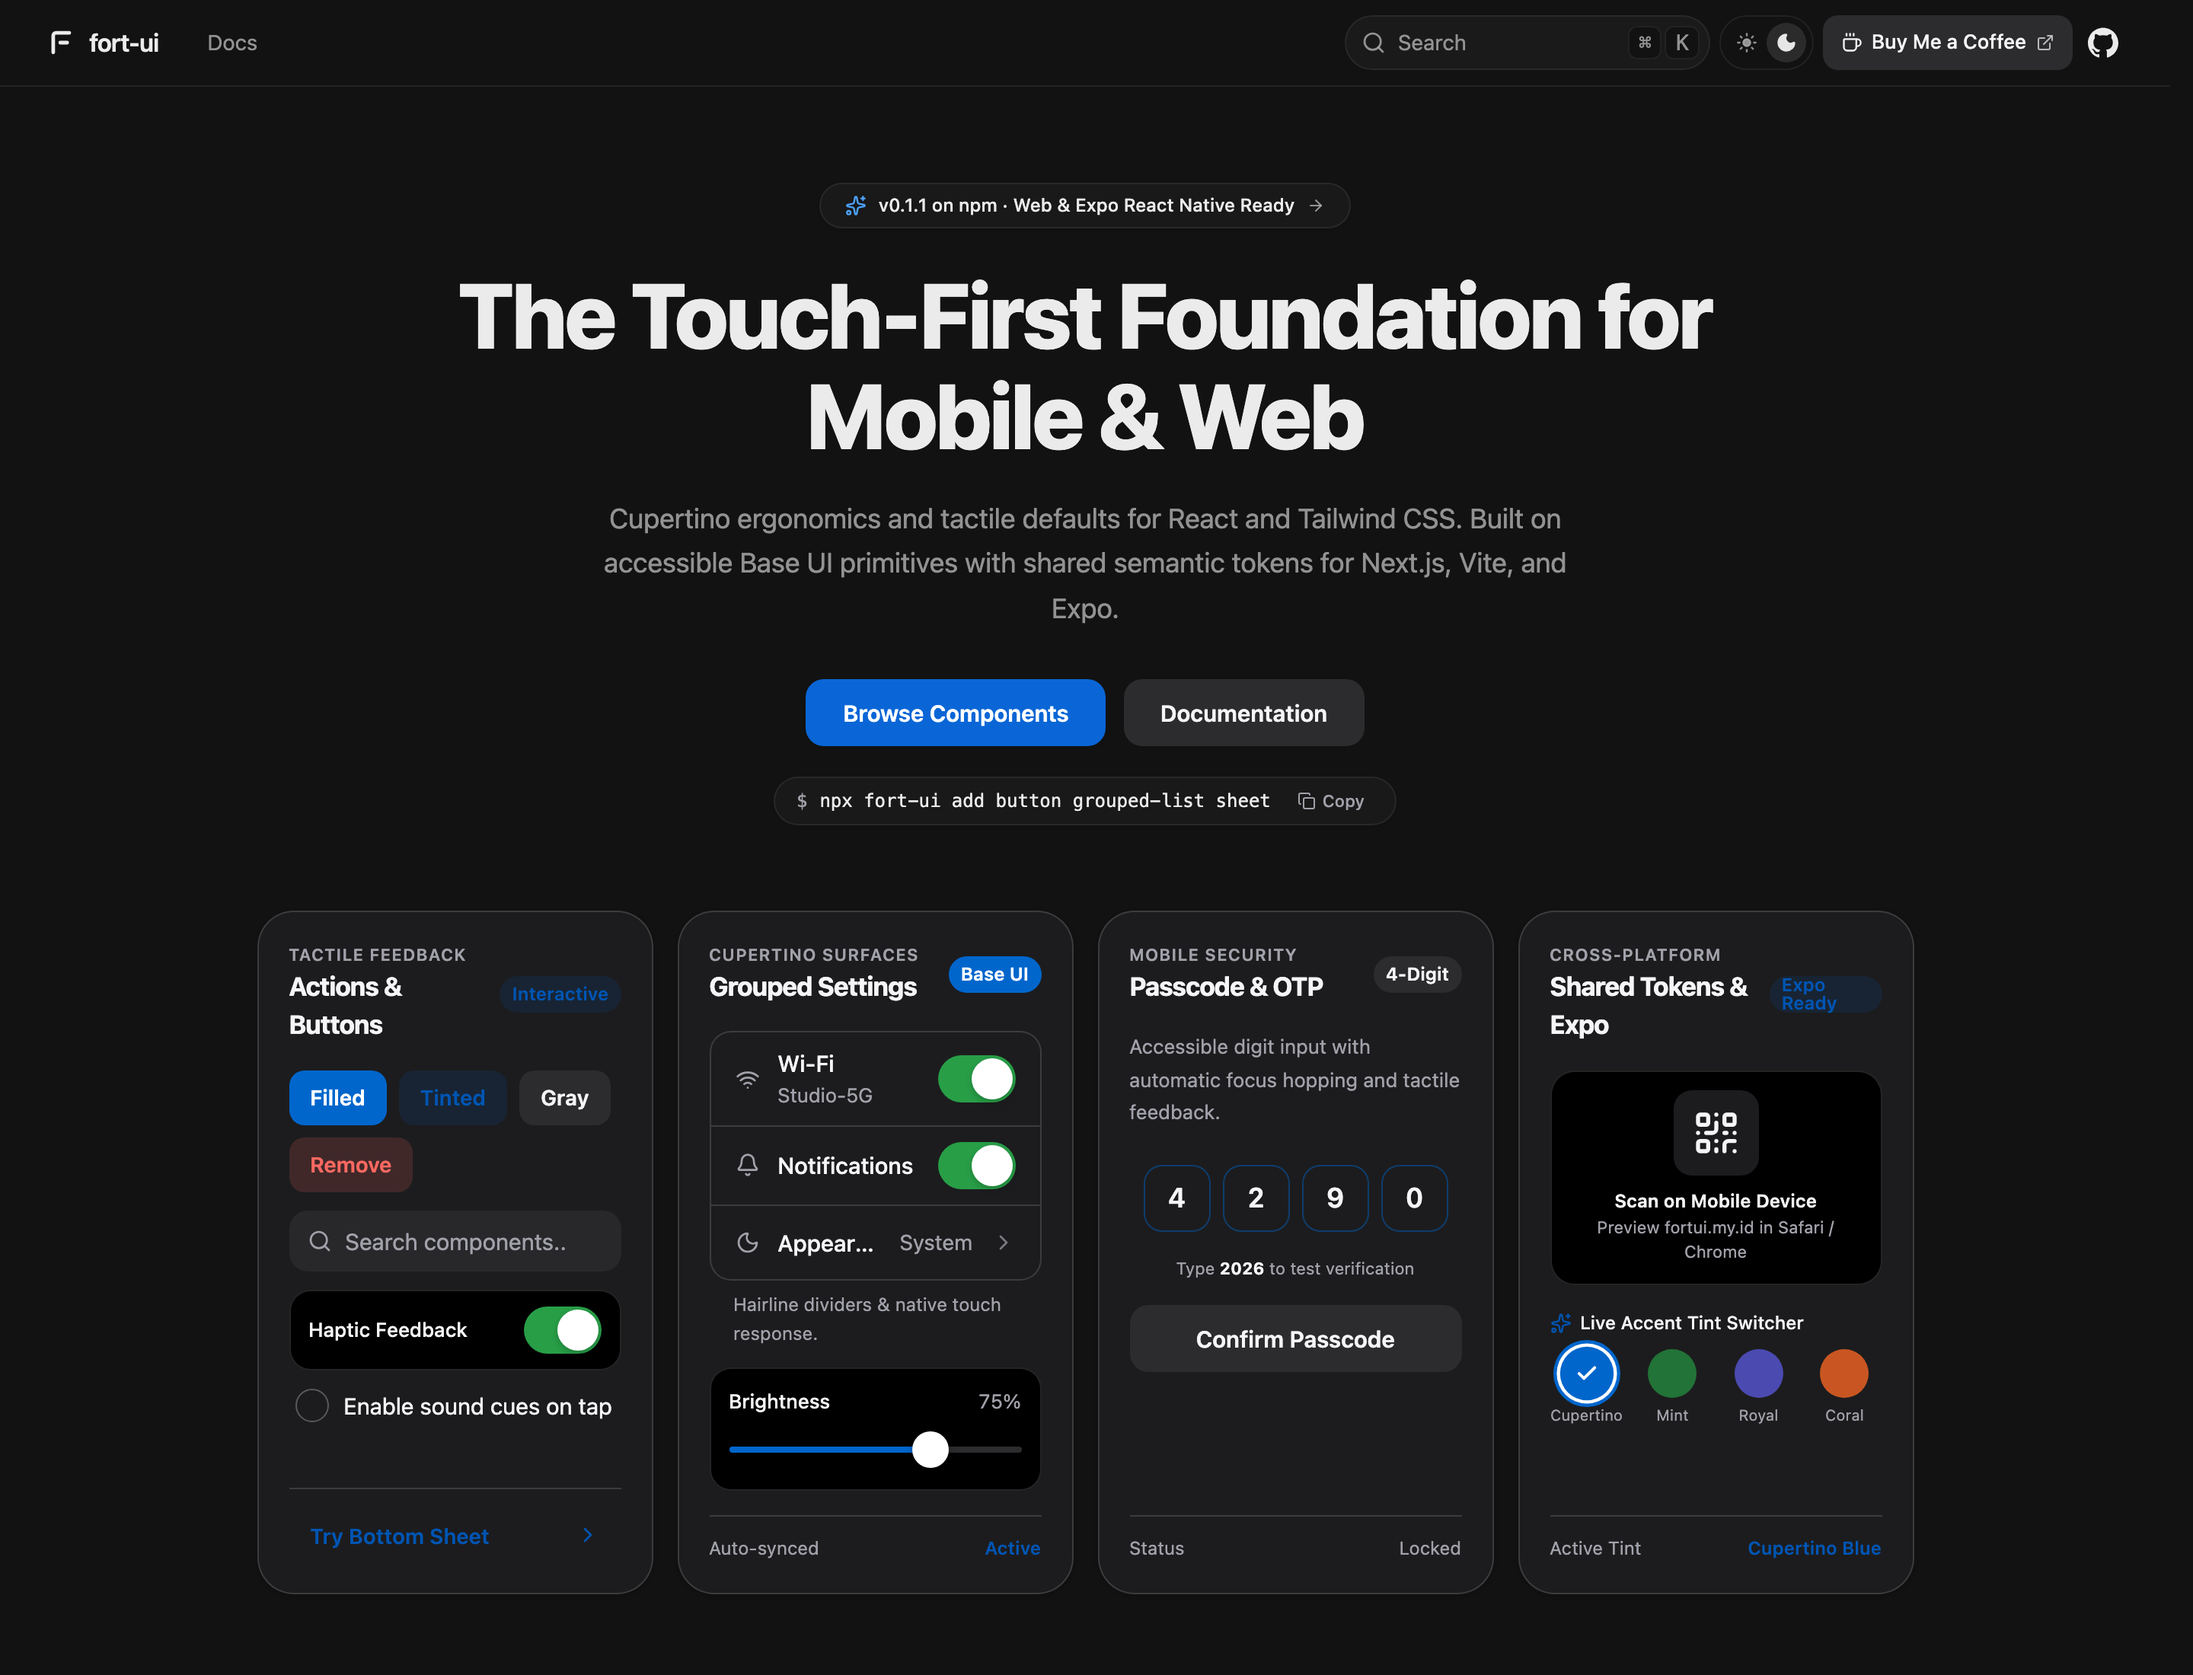
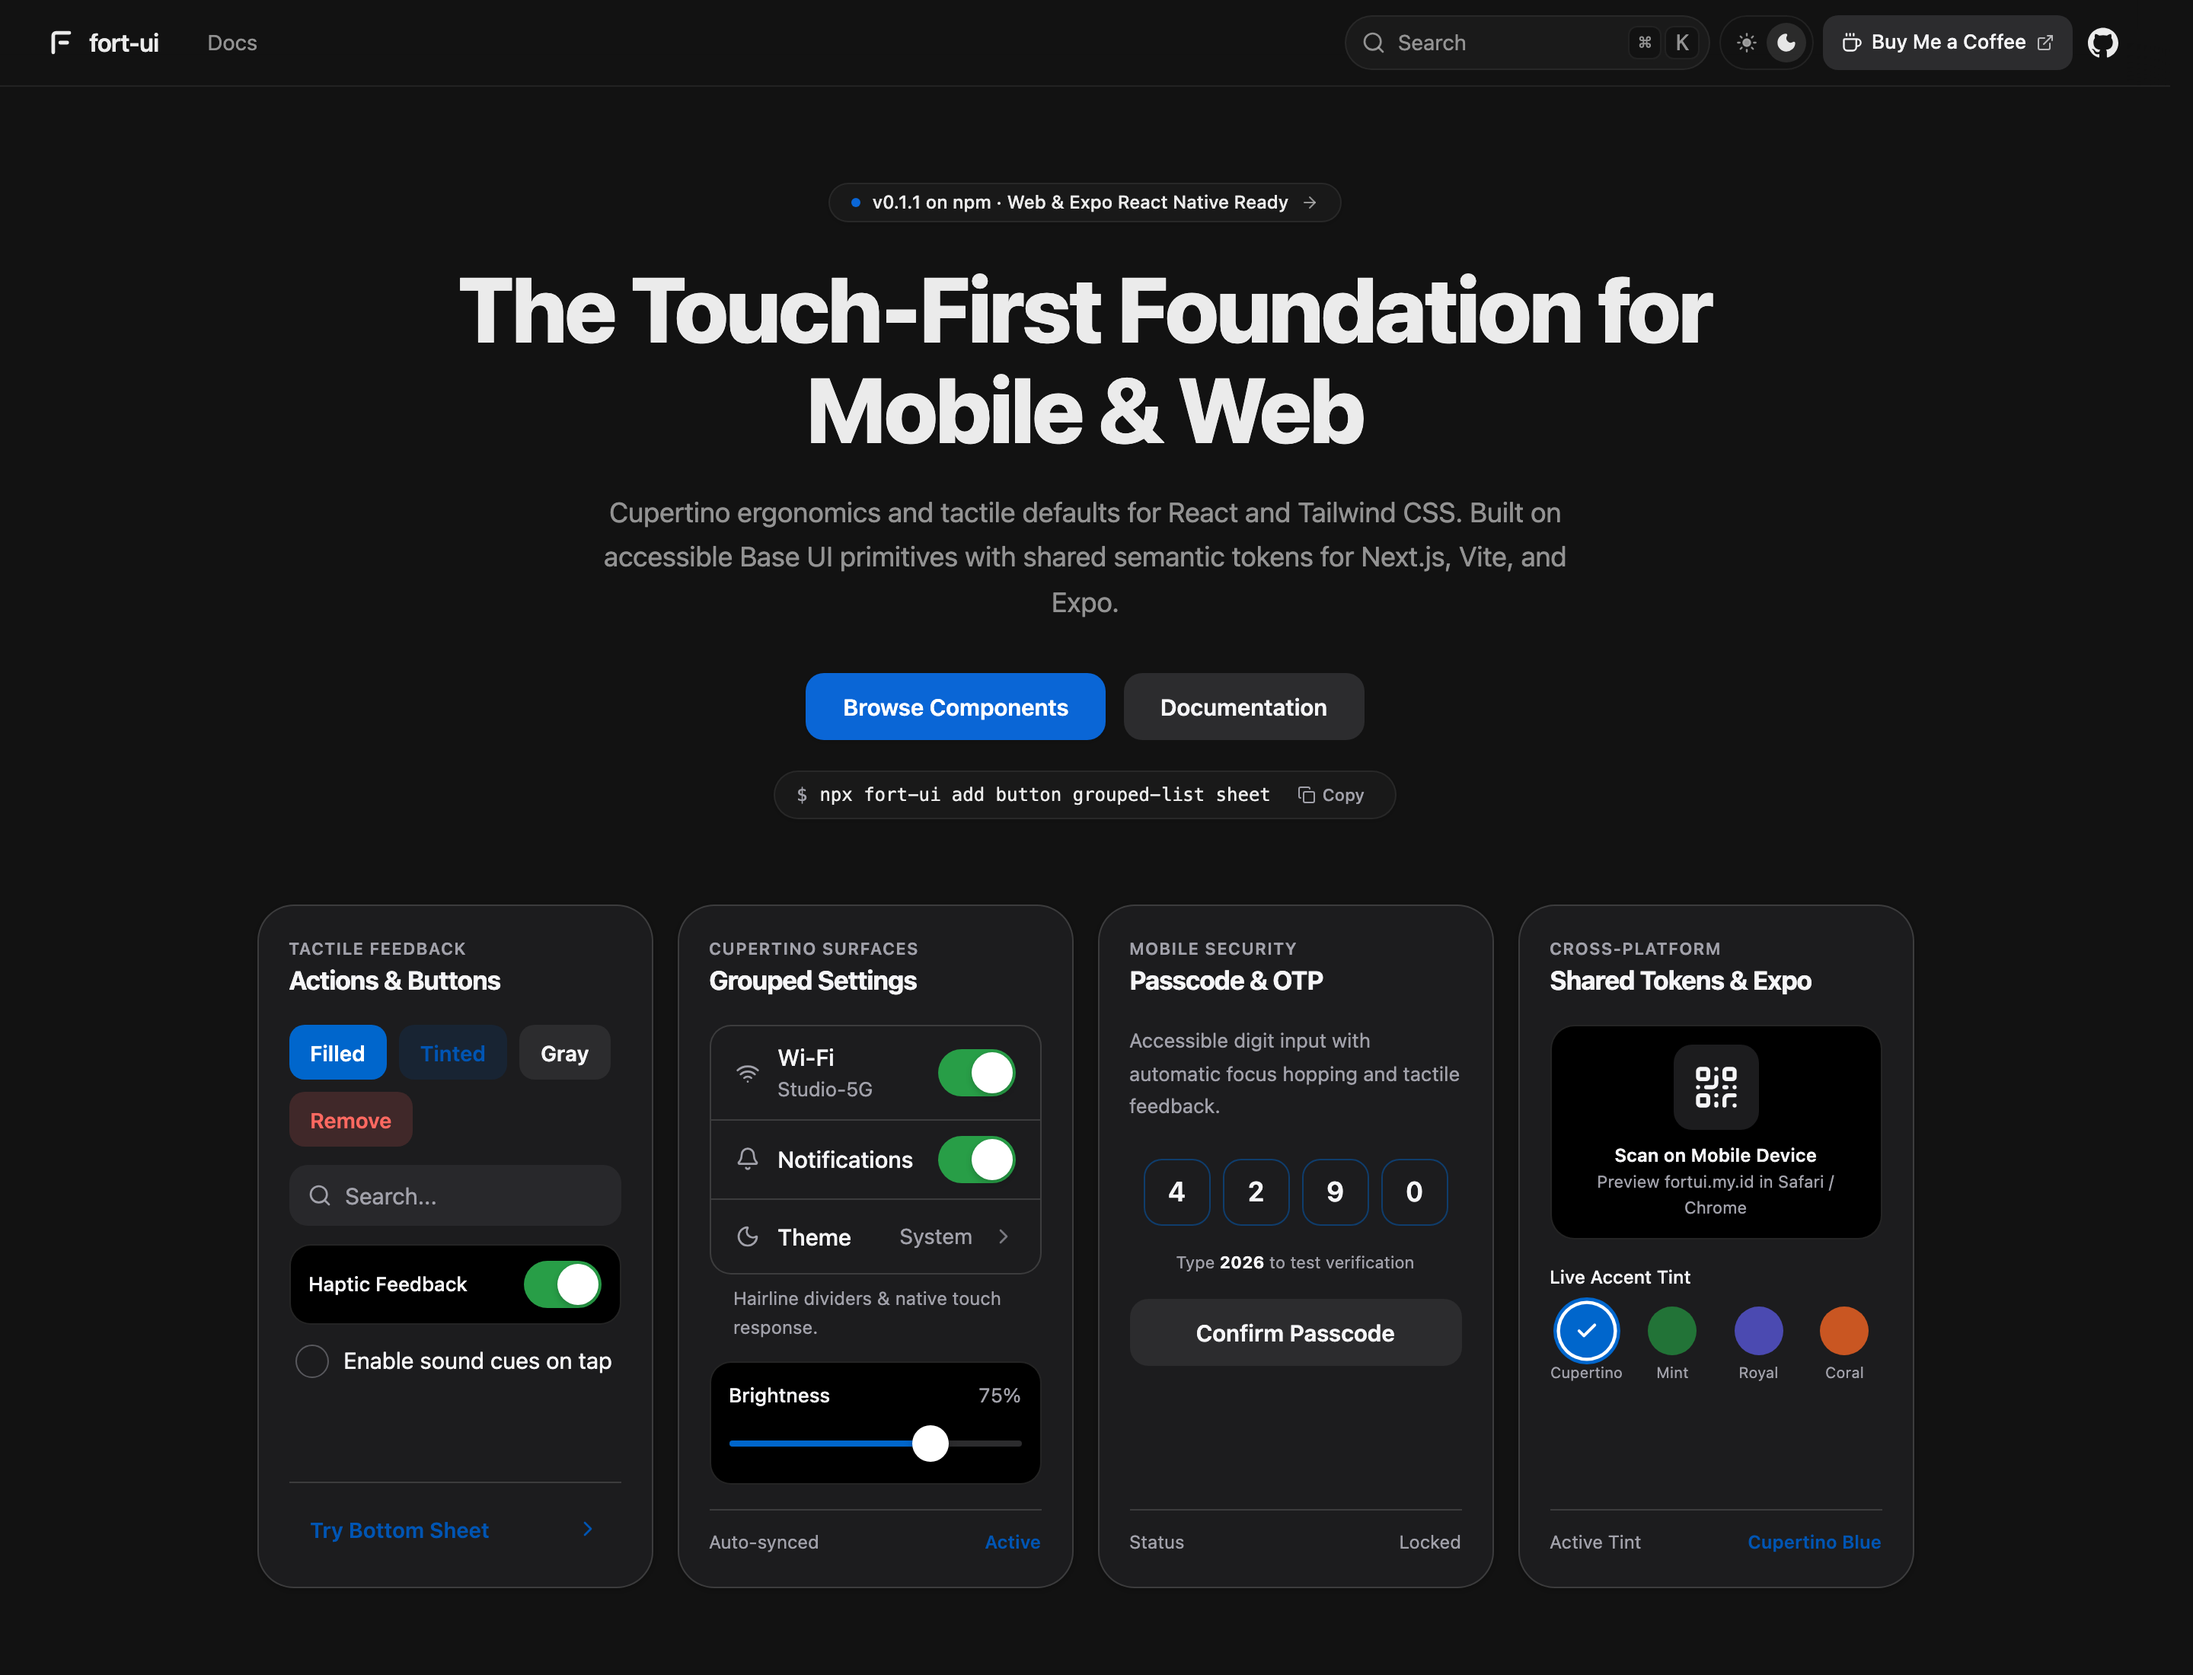
fix(ui): remove cluttered card badges, remove sparkles and emojis, polish bento layout

diff --git a/components/home-bento.tsx b/components/home-bento.tsx
@@ -9,11 +9,9 @@ import {
   Moon,
   QrCode,
   SlidersHorizontal,
-  Sparkles,
   Wifi,
 } from 'lucide-react';
 import { Button } from '@/registry/web/ui/button';
-import { Badge } from '@/registry/web/ui/badge';
 import { Checkbox } from '@/registry/web/ui/checkbox';
 import { SearchBar } from '@/registry/web/ui/input';
 import { Slider } from '@/registry/web/ui/slider';
@@ -70,18 +68,13 @@ export function HomeBento() {
         {/* Card 1: Touch Actions & Controls */}
         <div className="flex flex-col justify-between rounded-[24px] border border-[var(--fort-separator)] bg-[var(--fort-surface)] p-5 shadow-sm transition-all duration-200 hover:border-fd-foreground/20">
           <div>
-            <div className="mb-4 flex items-center justify-between">
-              <div>
-                <p className="text-[11px] font-semibold tracking-wider text-[var(--fort-label-secondary)] uppercase">
-                  Tactile Feedback
-                </p>
-                <h3 className="text-[17px] font-bold tracking-tight text-[var(--fort-label)]">
-                  Actions &amp; Buttons
-                </h3>
-              </div>
-              <Badge variant="tinted">
-                Interactive
-              </Badge>
+            <div className="mb-4">
+              <p className="text-[11px] font-semibold tracking-wider text-[var(--fort-label-secondary)] uppercase">
+                Tactile Feedback
+              </p>
+              <h3 className="text-[17px] font-bold tracking-tight text-[var(--fort-label)]">
+                Actions &amp; Buttons
+              </h3>
             </div>
 
             <div className="space-y-3">
@@ -159,18 +152,13 @@ export function HomeBento() {
         {/* Card 2: Cupertino Inset Grouped Settings */}
         <div className="flex flex-col justify-between rounded-[24px] border border-[var(--fort-separator)] bg-[var(--fort-surface)] p-5 shadow-sm transition-all duration-200 hover:border-fd-foreground/20">
           <div>
-            <div className="mb-4 flex items-center justify-between">
-              <div>
-                <p className="text-[11px] font-semibold tracking-wider text-[var(--fort-label-secondary)] uppercase">
-                  Cupertino Surfaces
-                </p>
-                <h3 className="text-[17px] font-bold tracking-tight text-[var(--fort-label)]">
-                  Grouped Settings
-                </h3>
-              </div>
-              <Badge variant="filled">
-                Base UI
-              </Badge>
+            <div className="mb-4">
+              <p className="text-[11px] font-semibold tracking-wider text-[var(--fort-label-secondary)] uppercase">
+                Cupertino Surfaces
+              </p>
+              <h3 className="text-[17px] font-bold tracking-tight text-[var(--fort-label)]">
+                Grouped Settings
+              </h3>
             </div>
 
             <GroupedList footer="Hairline dividers &amp; native touch response.">
@@ -232,18 +220,13 @@ export function HomeBento() {
         {/* Card 3: Passcode & OTP Verification */}
         <div className="flex flex-col justify-between rounded-[24px] border border-[var(--fort-separator)] bg-[var(--fort-surface)] p-5 shadow-sm transition-all duration-200 hover:border-fd-foreground/20">
           <div>
-            <div className="mb-4 flex items-center justify-between">
-              <div>
-                <p className="text-[11px] font-semibold tracking-wider text-[var(--fort-label-secondary)] uppercase">
-                  Mobile Security
-                </p>
-                <h3 className="text-[17px] font-bold tracking-tight text-[var(--fort-label)]">
-                  Passcode &amp; OTP
-                </h3>
-              </div>
-              <Badge variant="neutral">
-                4-Digit
-              </Badge>
+            <div className="mb-4">
+              <p className="text-[11px] font-semibold tracking-wider text-[var(--fort-label-secondary)] uppercase">
+                Mobile Security
+              </p>
+              <h3 className="text-[17px] font-bold tracking-tight text-[var(--fort-label)]">
+                Passcode &amp; OTP
+              </h3>
             </div>
 
             <p className="text-[13px] leading-relaxed text-[var(--fort-label-secondary)] mb-4">
@@ -300,18 +283,13 @@ export function HomeBento() {
         {/* Card 4: Cross-Platform & Accent Tint Switcher */}
         <div className="flex flex-col justify-between rounded-[24px] border border-[var(--fort-separator)] bg-[var(--fort-surface)] p-5 shadow-sm transition-all duration-200 hover:border-fd-foreground/20">
           <div>
-            <div className="mb-4 flex items-center justify-between">
-              <div>
-                <p className="text-[11px] font-semibold tracking-wider text-[var(--fort-label-secondary)] uppercase">
-                  Cross-Platform
-                </p>
-                <h3 className="text-[17px] font-bold tracking-tight text-[var(--fort-label)]">
-                  Shared Tokens &amp; Expo
-                </h3>
-              </div>
-              <Badge variant="tinted">
-                Expo Ready
-              </Badge>
+            <div className="mb-4">
+              <p className="text-[11px] font-semibold tracking-wider text-[var(--fort-label-secondary)] uppercase">
+                Cross-Platform
+              </p>
+              <h3 className="text-[17px] font-bold tracking-tight text-[var(--fort-label)]">
+                Shared Tokens &amp; Expo
+              </h3>
             </div>
 
             <div className="rounded-[16px] border border-[var(--fort-separator)] bg-[var(--fort-bg)] p-3 text-center mb-4">
@@ -327,9 +305,8 @@ export function HomeBento() {
             </div>
 
             <div>
-              <p className="text-[12px] font-medium text-[var(--fort-label)] mb-2 flex items-center gap-1.5">
-                <Sparkles className="size-3.5 text-[var(--fort-tint-text)]" />
-                Live Accent Tint Switcher
+              <p className="text-[12px] font-medium text-[var(--fort-label)] mb-2.5">
+                Live Accent Tint
               </p>
               <div className="grid grid-cols-4 gap-2">
                 {TINT_PRESETS.map((preset) => {

diff --git a/app/(home)/page.tsx b/app/(home)/page.tsx
@@ -1,5 +1,5 @@
 import Link from 'next/link';
-import { ArrowRight, Sparkles } from 'lucide-react';
+import { ArrowRight } from 'lucide-react';
 import { HomeBento, CommandPill } from '@/components/home-bento';
 import { DonateButton } from '@/components/donate-button';
 import { appName, gitConfig, siteDescription, siteUrl } from '@/lib/shared';
@@ -90,9 +90,9 @@ export default function HomePage() {
         {/* Top Announcement Pill */}
         <Link
           href="/docs/expo"
-          className="group inline-flex items-center gap-2 rounded-full border border-fd-border bg-fd-card px-4 py-1.5 text-xs font-medium text-fd-foreground shadow-xs transition-colors hover:border-fd-foreground/20 hover:bg-fd-accent"
+          className="group inline-flex items-center gap-2 rounded-full border border-fd-border bg-fd-card px-3.5 py-1 text-xs font-medium text-fd-foreground shadow-xs transition-colors hover:border-fd-foreground/20 hover:bg-fd-accent"
         >
-          <Sparkles className="size-3.5 text-[var(--fort-tint-text)]" />
+          <span className="size-1.5 rounded-full bg-[var(--fort-tint)]" />
           <span>v0.1.1 on npm · Web &amp; Expo React Native Ready</span>
           <ArrowRight className="size-3 text-fd-muted-foreground transition-transform group-hover:translate-x-0.5" />
         </Link>

diff --git a/registry/native/ui/filter-chips.tsx b/registry/native/ui/filter-chips.tsx
@@ -110,7 +110,7 @@ export function FilterChips({
                 textStyle,
               ]}
             >
-              {active ? '✓ ' : ''}{item.label}
+              {item.label}
             </Text>
           </Pressable>
         );
@@ -137,3 +137,4 @@ const styles = StyleSheet.create({
     fontSize: 13,
   },
 });
+

diff --git a/registry/native/ui/numpad.tsx b/registry/native/ui/numpad.tsx
@@ -179,3 +179,4 @@ const styles = StyleSheet.create({
     fontWeight: '500',
   },
 });
+

diff --git a/registry/native/ui/wheel-picker.tsx b/registry/native/ui/wheel-picker.tsx
@@ -154,3 +154,4 @@ const styles = StyleSheet.create({
     fontSize: 16,
   },
 });
+

diff --git a/registry/web/ui/filter-chips.tsx b/registry/web/ui/filter-chips.tsx
@@ -108,3 +108,4 @@ export function FilterChips({
     </div>
   );
 }
+

diff --git a/registry/web/ui/wheel-picker.tsx b/registry/web/ui/wheel-picker.tsx
@@ -198,3 +198,4 @@ export function WheelPicker({
     </div>
   );
 }
+
